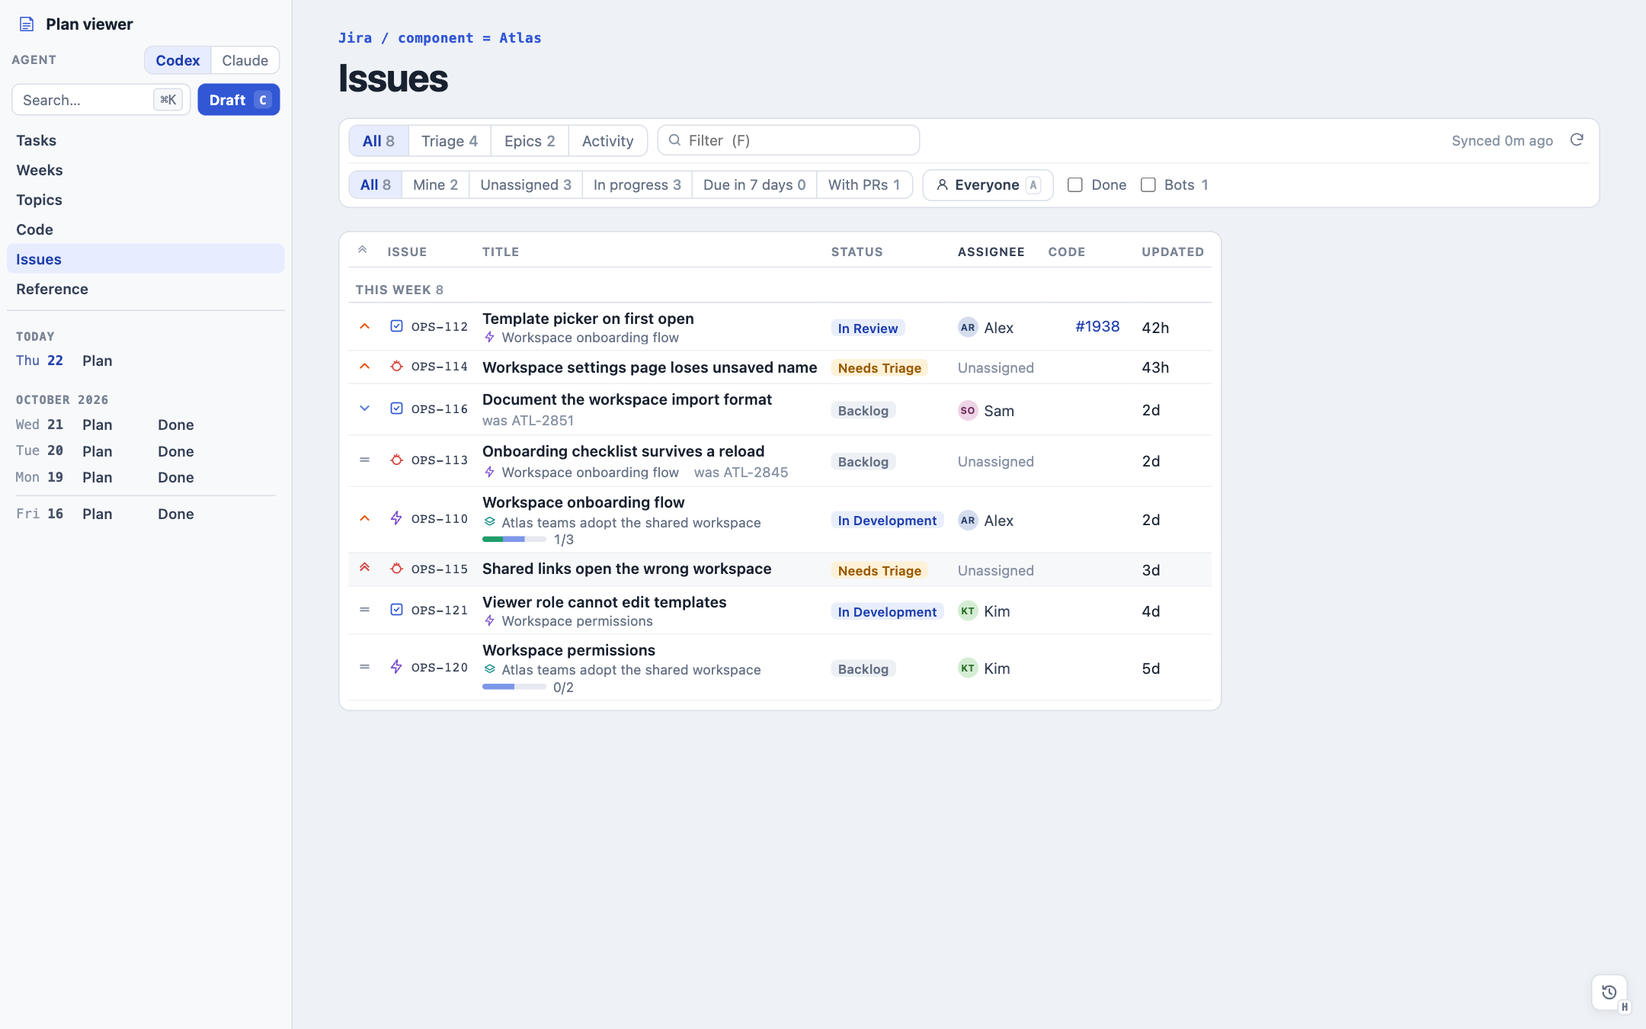
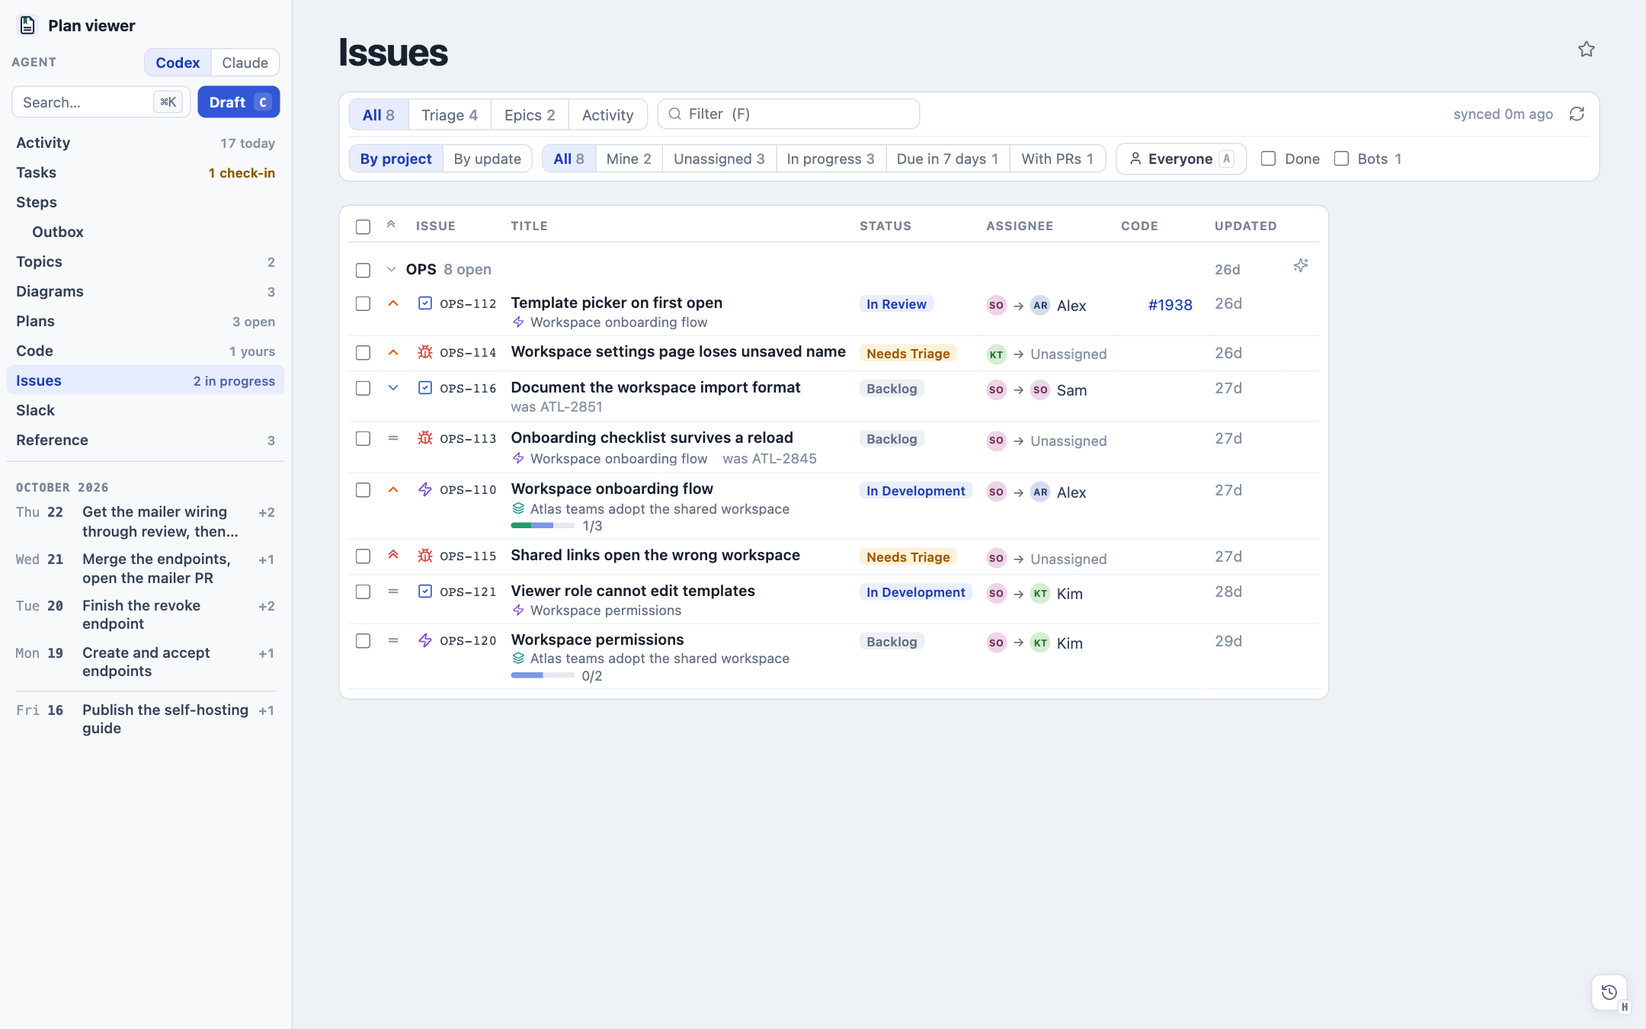
Header: breadcrumb and file path move to the right of the title; list pages drop their blue description line

diff --git a/public/app.js b/public/app.js
@@ -153,6 +153,7 @@ function dailyDocumentLabel(doc) {
 
 function resetPageNavigation() {
   elements.taskDocumentPath.hidden = true;
+  elements.meta.replaceChildren();
   elements.taskPathValue.textContent = "";
   delete elements.copyTaskPath.dataset.copyPath;
   elements.taskPathStatus.textContent = "";
@@ -446,7 +447,6 @@ function renderTasksPage() {
   elements.tasksButton.setAttribute("aria-current", "page");
   for (const file of elements.documents.querySelectorAll('.document-link[aria-current="page"]')) file.setAttribute("aria-current", "false");
   elements.title.textContent = "Tasks";
-  elements.meta.textContent = `Repository tasks  /  ${showDoneTasks ? "all" : "unfinished"}`;
   elements.count.textContent = `${tasks.length} ${tasks.length === 1 ? "task" : "tasks"}`;
   elements.chunkNav.hidden = true;
   elements.chunkNav.replaceChildren();
@@ -553,8 +553,8 @@ function showTasks({ historyMode = "push" } = {}) {
 
 // Topics and Reference get their own pages instead of sidebar lists. Topics group each `plans/<topic>/` folder under its README.
 const LIBRARY_VIEWS = {
-  topics: { group: "Topics", title: "Topics", meta: "Cross-day plans  /  plans/", intro: "Cross-day planning work, one folder per topic." },
-  reference: { group: "Reference", title: "Reference", meta: "Stable context  /  reference/", intro: "Repository maps, conventions and other cross-day facts." },
+  topics: { group: "Topics", title: "Topics", intro: "Cross-day planning work, one folder per topic." },
+  reference: { group: "Reference", title: "Reference", intro: "Repository maps, conventions and other cross-day facts." },
 };
 
 function libraryRow(doc, label = doc.title, detail = doc.path) {
@@ -582,7 +582,6 @@ function renderLibraryPage(view) {
   elements[`${view}Button`].setAttribute("aria-current", "page");
   for (const file of elements.documents.querySelectorAll('.document-link[aria-current="page"]')) file.setAttribute("aria-current", "false");
   elements.title.textContent = config.title;
-  elements.meta.textContent = config.meta;
   elements.count.textContent = `${docs.length} ${docs.length === 1 ? "file" : "files"}`;
   elements.chunkNav.hidden = true;
   elements.chunkNav.replaceChildren();
@@ -653,7 +652,6 @@ function renderDiagramsPage() {
   elements.diagramsButton.setAttribute("aria-current", "page");
   for (const file of elements.documents.querySelectorAll('.document-link[aria-current="page"]')) file.setAttribute("aria-current", "false");
   elements.title.textContent = "Diagrams";
-  elements.meta.textContent = "Every .draft in the workspace";
   elements.count.textContent = state.diagrams ? plural(state.diagrams.length, "diagram") : "";
   elements.chunkNav.hidden = true;
   elements.chunkNav.replaceChildren();
@@ -709,7 +707,6 @@ function renderCode(tab = new URLSearchParams(location.search).get("tab") || "")
   elements.codeButton.setAttribute("aria-current", "page");
   for (const file of elements.documents.querySelectorAll('.document-link[aria-current="page"]')) file.setAttribute("aria-current", "false");
   elements.title.textContent = "Code";
-  elements.meta.textContent = `Tracked repositories  /  ${config().code.reposFile}`;
   elements.count.textContent = "";
   elements.chunkNav.hidden = true;
   elements.chunkNav.replaceChildren();
@@ -737,7 +734,6 @@ function renderPlans() {
   elements.plansButton.setAttribute("aria-current", "page");
   for (const file of elements.documents.querySelectorAll('.document-link[aria-current="page"]')) file.setAttribute("aria-current", "false");
   elements.title.textContent = "Plans";
-  elements.meta.textContent = `Initiatives in tracked repositories  /  ${config().code.reposFile}`;
   elements.count.textContent = "";
   elements.chunkNav.hidden = true;
   elements.chunkNav.replaceChildren();
@@ -766,7 +762,6 @@ function renderIssues(tab = new URLSearchParams(location.search).get("tab") || "
   for (const file of elements.documents.querySelectorAll('.document-link[aria-current="page"]')) file.setAttribute("aria-current", "false");
   elements.title.textContent = "Issues";
   const { jql, linear, github } = config().issues;
-  elements.meta.textContent = [jql && `Jira  /  ${jql}`, linear?.teams?.length && `Linear  /  ${linear.teams.join(", ")}`, github && "GitHub  /  tracked repositories"].filter(Boolean).join("   ·   ");
   elements.count.textContent = "";
   elements.chunkNav.hidden = true;
   elements.chunkNav.replaceChildren();
@@ -793,7 +788,6 @@ function renderSlack() {
   elements.slackButton.setAttribute("aria-current", "page");
   for (const file of elements.documents.querySelectorAll('.document-link[aria-current="page"]')) file.setAttribute("aria-current", "false");
   elements.title.textContent = "Slack";
-  elements.meta.textContent = "Threads the planning documents link, read through Codex's Slack connector";
   elements.count.textContent = "";
   elements.chunkNav.hidden = true;
   elements.chunkNav.replaceChildren();
@@ -820,7 +814,6 @@ function renderActivity() {
   elements.activityButton.setAttribute("aria-current", "page");
   for (const file of elements.documents.querySelectorAll('.document-link[aria-current="page"]')) file.setAttribute("aria-current", "false");
   elements.title.textContent = "Activity";
-  elements.meta.textContent = "Everything that changed, newest first";
   elements.count.textContent = "";
   elements.chunkNav.hidden = true;
   elements.chunkNav.replaceChildren();
@@ -2245,7 +2238,6 @@ function renderStepsPage() {
   (outbox ? elements.outboxButton : elements.stepsButton).setAttribute("aria-current", "page");
   for (const file of elements.documents.querySelectorAll('.document-link[aria-current="page"]')) file.setAttribute("aria-current", "false");
   elements.title.textContent = outbox ? "Outbox" : "Steps";
-  elements.meta.textContent = outbox ? "Steps  /  outbound, waiting on your approval" : "Every open step  /  by next move";
   elements.chunkNav.hidden = true;
   elements.chunkNav.replaceChildren();
   elements.chunks.classList.add("tasks-page", "steps-page");

diff --git a/public/styles.css b/public/styles.css
@@ -104,8 +104,9 @@ button { cursor: pointer; }
 .reading-pane { width: 100%; padding: 26px clamp(18px, 3vw, 40px) 80px; }
 .document-header { display: flex; align-items: flex-start; gap: 8px 24px; flex-wrap: wrap; margin-bottom: 16px; }
 .document-header > div:first-child { flex: 1 1 420px; min-width: 0; }
-.document-breadcrumb { display: flex; flex-wrap: wrap; align-items: center; justify-content: space-between; gap: 8px 24px; margin-bottom: 9px; }
-.document-meta { min-width: 0; display: flex; align-items: center; gap: 7px; color: var(--action); font: 650 .74rem/1.2 ui-monospace, SFMono-Regular, Menlo, monospace; letter-spacing: .025em; }
+.document-breadcrumb { min-width: 0; display: flex; flex-wrap: wrap; align-items: center; justify-content: flex-end; gap: 4px 16px; }
+.document-meta { min-width: 0; display: flex; align-items: center; gap: 7px; color: var(--muted); font: 500 .8rem/1.2 ui-sans-serif, -apple-system, BlinkMacSystemFont, sans-serif; }
+.document-meta:empty { display: none; }
 .document-meta > span { flex: none; white-space: nowrap; }
 .crumb { min-width: 0; max-width: 48ch; overflow: hidden; border: 0; border-radius: 5px; background: none; margin: 0 -4px; padding: 3px 4px; color: var(--action); font: inherit; letter-spacing: inherit; text-decoration: none; text-overflow: ellipsis; white-space: nowrap; cursor: pointer; transition: background-color .12s, color .12s; }
 .crumb:hover { background: var(--selected); color: var(--action-ink); }
@@ -145,7 +146,7 @@ button { cursor: pointer; }
 .copy-task-path.is-copied .path-copied-icon { display: inline; }
 .copy-task-path.copy-error { color: var(--danger); }
 @keyframes path-copy-confirmation { 0%, 45% { color: var(--success); background-color: var(--selected); } 100% { color: var(--muted); background-color: transparent; } }
-.document-tools { flex: none; display: flex; align-items: center; gap: 10px; margin-top: .3em; }
+.document-tools { flex: 0 1 auto; min-width: 0; display: flex; align-items: center; justify-content: flex-end; gap: 10px; margin-top: .3em; }
 .chunk-count { color: var(--muted); font-size: .78rem; white-space: nowrap; }
 .chunk-count:empty { display: none; }
 .toaster { position: fixed; right: 16px; bottom: 56px; z-index: 60; width: min(360px, calc(100vw - 32px)); height: var(--front-height, 0); margin: 0; padding: 0; list-style: none; }

diff --git a/public/index.html b/public/index.html
@@ -71,21 +71,21 @@
       </aside>
 
       <main class="reading-pane">
-        <div class="document-breadcrumb">
-          <div id="document-meta" class="document-meta">Loading today’s plan…</div>
-          <div id="task-document-path" class="task-document-path" hidden>
-            <button id="copy-task-path" class="copy-task-path" type="button" title="Click to copy path" aria-label="Copy document path" aria-describedby="task-path-value">
-              <code id="task-path-value"></code>
-              <svg aria-hidden="true" viewBox="0 0 20 20"><g class="path-copy-icon"><rect x="7" y="7" width="9" height="10" rx="1.5"/><path d="M12 7V3H3v10h4"/></g><path class="path-copied-icon" d="m4 10 4 4 8-8"/></svg>
-            </button>
-            <span id="task-path-status" class="sr-only" role="status"></span>
-          </div>
-        </div>
         <header class="document-header">
           <div>
             <h1 id="document-title">Daily plan</h1>
           </div>
           <div class="document-tools">
+            <div class="document-breadcrumb">
+              <div id="document-meta" class="document-meta"></div>
+              <div id="task-document-path" class="task-document-path" hidden>
+                <button id="copy-task-path" class="copy-task-path" type="button" title="Click to copy path" aria-label="Copy document path" aria-describedby="task-path-value">
+                  <code id="task-path-value"></code>
+                  <svg aria-hidden="true" viewBox="0 0 20 20"><g class="path-copy-icon"><rect x="7" y="7" width="9" height="10" rx="1.5"/><path d="M12 7V3H3v10h4"/></g><path class="path-copied-icon" d="m4 10 4 4 8-8"/></svg>
+                </button>
+                <span id="task-path-status" class="sr-only" role="status"></span>
+              </div>
+            </div>
             <button id="favorite-star" class="code-icon-button favorite-star" type="button" aria-pressed="false" aria-label="Favorite (⌘D)" aria-keyshortcuts="Meta+D Control+D"><svg viewBox="0 0 24 24" aria-hidden="true"></svg></button>
             <div id="chunk-count" class="chunk-count" aria-label="Chunk count"></div>
           </div>

diff --git a/docs/guide.md b/docs/guide.md
@@ -153,6 +153,6 @@ Tasks and daily plans can record related conversations under `## Chats` using or
 
 Viewer handoffs ask the receiving agent to record its verified conversation URL or thread ID when available, and the workspace's AGENTS.md can give agents the same convention. The new-draft handoff does not return a thread ID, so the viewer cannot automatically know the resulting conversation. An agent with trusted session identity can save it; otherwise paste the conversation's actual URL into `## Chats`. Shared snapshot URLs do not provide a place to send follow-up commentary and are not shown as related chats.
 
-Documents get a clickable breadcrumb (task list, day switcher, parent document, or copy target) and a sticky bar with a Codex draft button and panels. **Work** (completed items as a ring and count) shows the task's Steps list, and its **Work items** button opens the step dialog at the first ready item; a document with next actions but no work breakdown shows them as **Next actions** instead. **Updates** lists the task's updates. **Diagrams** (when there are any) shows the diagrams the page embeds, then the task's other `.draft` files marked **Not embedded**, as thumbnails that open the diagram viewer. **Links** groups the outgoing links by source, and its last tab, **Linked from**, lists the documents that link here. A task with files in `tasks/TASK-NNNN-assets/` (and each of those files) gets a **Documents** panel: the task first, then its documents newest first under day headings, each with its `##` sections, when it was last edited (minutes or hours ago today, the time of day before that), its word count and images. **Edited**, **Created** and **Name** in the panel header re-sort it, and the choice is remembered in this browser; hover a row for its file name and exact edit and creation times. Standalone `TASK-0001` references, PRs (`#1810` in `github.defaultRepo`, `Orbit#2738` for a repository in `github.repos`), tracker keys such as `ATL-2845` (from `trackers`), slash lists such as `TASK-0016/0017` or `ATL-2733/2734`, commit SHAs (`Orbit@052702c8`, or bare SHAs inferred from the paragraph's PR references; not in headings, where a leading hex ID such as `### c4574f89: Connection dropped` names the section), 32-character trace IDs (through `traceUrl`), and Slack permalinks become icon links. Slack links open in the desktop app, or, with `slack.codex` set, in a thread overlay read once through Codex's Slack connector (a couple of seconds, no model) and then from the cache in `tmp/slack-threads.json`. The overlay reads like Slack: the channel name, who started the thread and when, the reply count and the people in it; day dividers; one header per run of messages from the same person within five minutes; emoji, skin tones and reactions (a workspace's custom emoji stay as `:name:`); mentions; and a **New since you last read** divider (`N`) from the last visit in this browser. The linked message is highlighted and scrolled to. **Linked from** lists the tasks and plans whose Slack links point into the thread, and each cited message carries the citing document's ID. **Links** (`L`) opens the documents' link browser over every link in the thread, with titles and states. Find (`F`) highlights matches and dims the other messages; `Enter` and `Shift+Enter` step through them. The box at the bottom (`D`) opens a Codex or Claude draft (whichever the agent picker chooses) in the planning workspace, with the thread saved to `tmp/slack-threads/<channel>-<ts>.md` for the agent to read and the citing documents named; typed text keeps the overlay open on `Esc` and backdrop clicks. `O` opens the thread in Slack (each message's ↗ opens that message), `R` reads it again (keeping your place), and `Esc` closes the overlay (or just the Links panel when it is open). The open thread is kept in the URL as `?slack=<permalink>`, so a refresh reopens it; closing it offers Reopen, and Recently viewed lists it by channel and first line. `⌘D` (or the header star) favorites the thread as opened, and each message's hover star favorites that message, which reopens the thread scrolled to it. Messages show their attached file names (open the message in Slack to see the files). A forwarded or shared message shows as a card under the message that shared it: its author, channel and date, and its text; a click on its header opens that message's own thread in the overlay (its ↗ opens it in Slack), and a card the connector cut short says so and links to the full thread.
+Documents get a clickable breadcrumb at the right of the title row (task list, day switcher, parent document, or copy target, beside the copyable file path); list pages such as Tasks and Activity show only their title there. Documents also get a sticky bar with a Codex draft button and panels. **Work** (completed items as a ring and count) shows the task's Steps list, and its **Work items** button opens the step dialog at the first ready item; a document with next actions but no work breakdown shows them as **Next actions** instead. **Updates** lists the task's updates. **Diagrams** (when there are any) shows the diagrams the page embeds, then the task's other `.draft` files marked **Not embedded**, as thumbnails that open the diagram viewer. **Links** groups the outgoing links by source, and its last tab, **Linked from**, lists the documents that link here. A task with files in `tasks/TASK-NNNN-assets/` (and each of those files) gets a **Documents** panel: the task first, then its documents newest first under day headings, each with its `##` sections, when it was last edited (minutes or hours ago today, the time of day before that), its word count and images. **Edited**, **Created** and **Name** in the panel header re-sort it, and the choice is remembered in this browser; hover a row for its file name and exact edit and creation times. Standalone `TASK-0001` references, PRs (`#1810` in `github.defaultRepo`, `Orbit#2738` for a repository in `github.repos`), tracker keys such as `ATL-2845` (from `trackers`), slash lists such as `TASK-0016/0017` or `ATL-2733/2734`, commit SHAs (`Orbit@052702c8`, or bare SHAs inferred from the paragraph's PR references; not in headings, where a leading hex ID such as `### c4574f89: Connection dropped` names the section), 32-character trace IDs (through `traceUrl`), and Slack permalinks become icon links. Slack links open in the desktop app, or, with `slack.codex` set, in a thread overlay read once through Codex's Slack connector (a couple of seconds, no model) and then from the cache in `tmp/slack-threads.json`. The overlay reads like Slack: the channel name, who started the thread and when, the reply count and the people in it; day dividers; one header per run of messages from the same person within five minutes; emoji, skin tones and reactions (a workspace's custom emoji stay as `:name:`); mentions; and a **New since you last read** divider (`N`) from the last visit in this browser. The linked message is highlighted and scrolled to. **Linked from** lists the tasks and plans whose Slack links point into the thread, and each cited message carries the citing document's ID. **Links** (`L`) opens the documents' link browser over every link in the thread, with titles and states. Find (`F`) highlights matches and dims the other messages; `Enter` and `Shift+Enter` step through them. The box at the bottom (`D`) opens a Codex or Claude draft (whichever the agent picker chooses) in the planning workspace, with the thread saved to `tmp/slack-threads/<channel>-<ts>.md` for the agent to read and the citing documents named; typed text keeps the overlay open on `Esc` and backdrop clicks. `O` opens the thread in Slack (each message's ↗ opens that message), `R` reads it again (keeping your place), and `Esc` closes the overlay (or just the Links panel when it is open). The open thread is kept in the URL as `?slack=<permalink>`, so a refresh reopens it; closing it offers Reopen, and Recently viewed lists it by channel and first line. `⌘D` (or the header star) favorites the thread as opened, and each message's hover star favorites that message, which reopens the thread scrolled to it. Messages show their attached file names (open the message in Slack to see the files). A forwarded or shared message shows as a card under the message that shared it: its author, channel and date, and its text; a click on its header opens that message's own thread in the overlay (its ↗ opens it in Slack), and a card the connector cut short says so and links to the full thread.
 
 The **Slack** page (in the sidebar when `slack.codex` is set, `?view=slack`) lists every thread the planning documents link, plus any opened from elsewhere. Favorites come first (threads you starred, and threads with a starred message), then the rest by last activity (the default) or by channel (`G`, kept in the URL as `group=channel`). Each row shows who started it and its opening line, its channel (when grouped by activity), **New replies** when it has messages since you last opened it in this browser, replies and people, the documents that cite it, and the age of its last message. A click on a cited task or plan, in a row, the inspector, or the thread overlay's **Linked from**, reads that document in a peek over the page instead of leaving it: links to other documents peek those, `Enter` or **Open** goes to the document, `Esc` returns to where you were, and ⌘-click opens the document directly. The same peek opens from planning-document links on the Issues page and its overview, the Activity inspector, and the PR and worktree overviews. Like every overlay, the peek keeps its document in the URL (`?peek=<path>`), so a refresh reopens it, Recently viewed and Favorites list it, and closing it offers **Reopen**. `F` filters across channels, people, text and citing documents; `J`/`K` move, `Enter` or a double click opens the thread overlay (a single click does on screens narrower than 1600px; wider ones select the newest thread and show its opening message and citing documents in an inspector). In an overlay opened from the page, `J`/`K` step to the next and previous thread in the list (its position shows in the header) and keep the page's selection in step. `S` or the row's star adds a thread to Favorites. Threads not read yet say so; `R` reads them all in the background through one connector session, four at a time (about a minute for 160 threads, no model), with progress in the toolbar, and reads every thread again when none are left. Anywhere in the viewer (documents, the brief, tables, inspectors, rail cards, waiting rows), a plain click on a PR or commit link opens the in-app PR overview or commit diff (a commit's header names the PRs that carry it, each a button to that PR's overview, or else the branches that contain it), and a click on a Jira or Linear key opens the issue overview once that issue is synced (a Jira key outside `issues.jql` is read on its first click and kept in the cache as context: the overview opens at once with a spinner while it reads, and the link opens on Jira if that read fails); ⌘-, Ctrl- or Shift-click goes to the site. PR and issue links take their state color (green merged or done, red closed, muted draft). Hovering one shows a card with the source, state and age, the title, and, for an open PR, review, checks and conflicts, then author, stack position (the linked PR its base belongs to and the ones built on it), and diff size. Titles and states for GitHub (pull requests, issues and commits), Linear, Jira, and Slack come from `gh`, `acli`, the Linear key, and an optional `[slack] TOKEN` in `config.toml`, cached in the ignored `tmp/link-metadata.json`. Slack channel and direct-message names come from that token or from `reference/slack-channels.md`, one `- C…: #channel-name` or `- D…: @Person` line each; an unnamed DM shows its ID. The links panel is a single row of tabs, one per source after an All tab that lists every link grouped by source, over the list; while it is open, 1–9 pick a tab, ← → cycle through them, and ↑ ↓ move through the rows of the open tab (as they do in the Documents and Backlinks panels). The panel is as tall as its All list, up to most of the window, and keeps that height while you switch tabs. Below 600 px wide, only the selected tab shows its name. Each list has one row per linked item with the key or date, the title, and the state as colored text, each in a column shared by every row: links to an issue's comments fold into the issue's row, a commit cited by a longer or shorter hash appears once (by its first seven digits, titled with its commit message and dated), and a document's mentions of its own ID are left out. Documents without an ID lead with their title, starting in the key column, with the path underneath. Slack links group under their channel or DM. `npm run links` lists linked channels and DMs the file does not name yet. Run `npm run links` to check for broken document links, unknown tasks and any file in `daily/` other than `plan.md` (`--fix` lists new Slack channels, `--warm` prefetches titles, `--refresh-slack` updates listed and newly linked channel names using `SLACK_TOKEN` or `[slack] TOKEN`).
